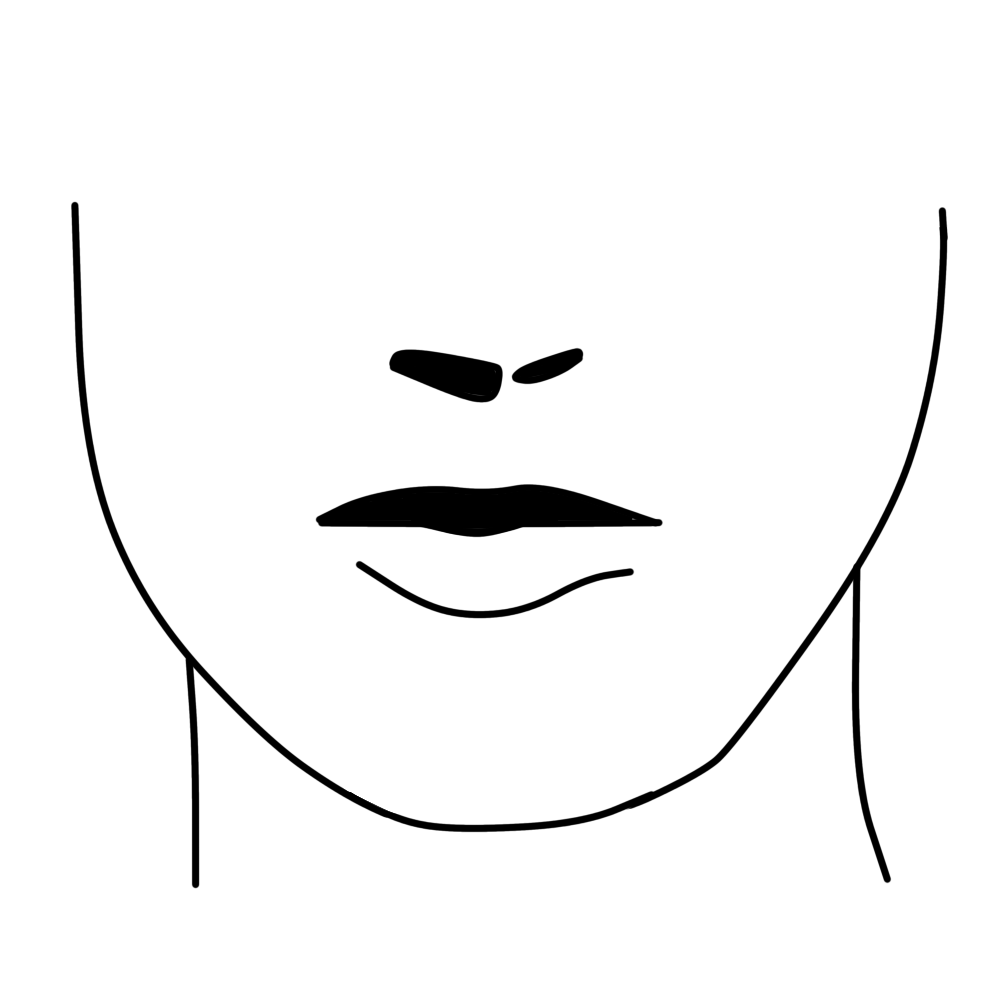
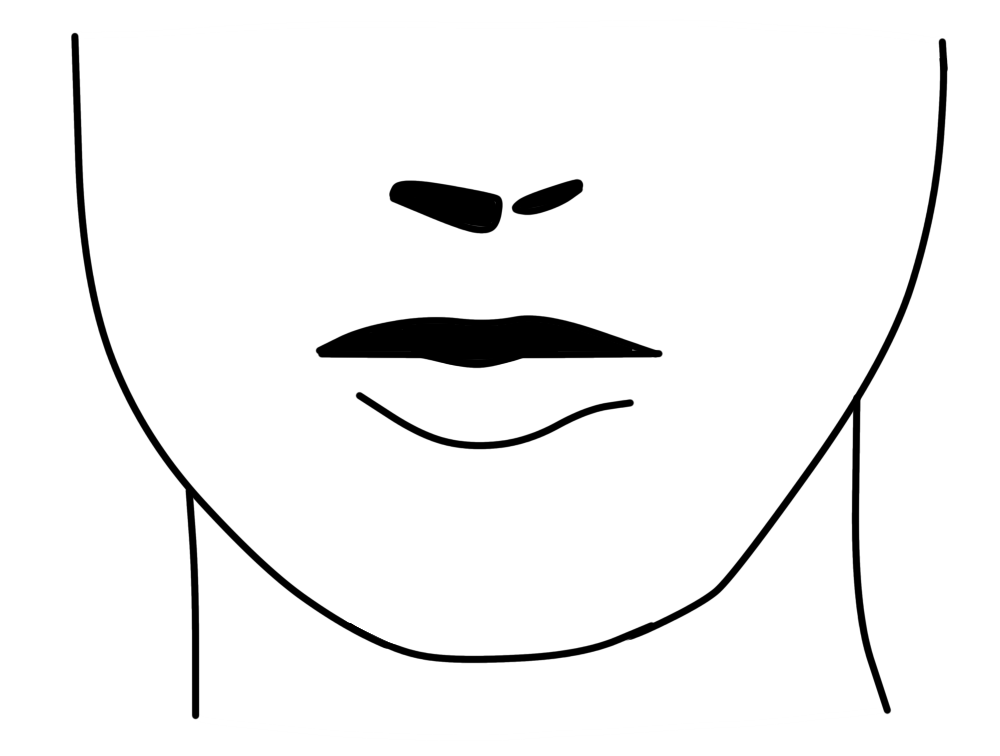
added percentages for all positions in laptop screen; adjusted styling for all screen sizes

diff --git a/animation.js b/animation.js
@@ -86,17 +86,59 @@ function display() {
     document.getElementById("resultIPA").innerHTML = ipaWords.join("");
 
     // image
+    handshape = cueNotation[animation_index][0];
     position = cueNotation[animation_index].slice(1);
     hand = document.getElementById("hand");
-    switch(position) {
-        case("m"): hand.style.right = "120px"; hand.style.bottom = "80px"; break;
+    hand.src = "images/5.png";
+    hand.style.transform = "scale(1)";
+    switch(handshape) {
+        case("1"): hand.src = "images/1.png"; break;
+        case("2"): hand.src = "images/2.png"; break;
+        case("3"): hand.src = "images/3.png"; break;
+        case("4"): hand.src = "images/4.png"; break;
+        case("5"): hand.src = "images/5.png"; break;
+        case("6"): hand.src = "images/6.png"; break;
+        case("7"): hand.src = "images/7.png"; break;
+        case("8"): hand.src = "images/8.png"; break;
     }
-    if (position == previousCue) {
+    switch(position) {
+        case("m"): hand.style.left = "56%"; hand.style.top = "10%"; break;
+        case("c"): hand.style.left = "49%"; hand.style.top = "30%"; break;
+        case("t"): hand.style.left = "49%"; hand.style.top = "40%"; break;
+        case("s"): hand.style.left = "70%"; hand.style.top = "35%"; break;
+        case("sf"): 
+            hand.style.left = "70%"; hand.style.top = "35%"; 
+            setTimeout(() => {
+                hand.style.transform = "scale(1.1)"; 
+            }, 100);   
+            break;
+        case("sd"): 
+            hand.style.left = "70%"; hand.style.top = "35%";     
+            setTimeout(() => {
+                hand.style.left = "70%"; hand.style.top = "45%"; 
+            }, 300);
+            break;
+        case("c-5t"): 
+            hand.style.left = "49%"; hand.style.top = "30%"; 
+            setTimeout(() => {
+                hand.src = "images/5.png";
+                hand.style.left = "49%"; hand.style.top = "40%";
+            }, 200);
+            break;
+        case("s-5t"): 
+            hand.style.left = "70%"; hand.style.top = "35%"; 
+            setTimeout(() => {
+                hand.src = "images/5.png";
+                hand.style.left = "49%"; hand.style.top = "40%";
+            }, 200);
+            break;
+    }
+    if (position == previousCue && position != "sf" && position != "sd" && position != "c-5t" && position !="s-5t") {
         hand = document.getElementById("hand");
         hand.style.transform = "scale(1.1)";
         setTimeout(() => {
             hand.style.transform = "scale(1)";
-        }, 150);
+        }, 100);
     }
     previousCue = position;
 }

diff --git a/style.css b/style.css
@@ -11,27 +11,50 @@ h1 {
     text-align: center;
 }
 #window {
-    width: 80%;
-    height: 500px;
+    width: 100%;
+    height: 65vw;
     max-width: 950px;
+    max-height: 450px;
     /*min-height: 250px;*/
     border: 1px solid black;
-    text-align: center;
     margin: auto;
-    /*margin-bottom: 50px;*/
+    text-align: center;
+    padding-bottom: 30px;
     position: relative;
 }
 #window #face {
     margin: auto;
-    width: 400px;
+    width: 40%;
+    max-width: 400px;
+    display: block;
 }
 #window #hand {
     position: absolute;
-    right: 0px;
-    bottom: 0px;
-    width: 300px;
+    left: 70%;
+    top: 35%;
+    width: 28%;
+    height: auto;
+    max-width: 300px;
     transition: .5s;
 }
+@media screen and (max-width: 800px) {
+    #window {
+        text-align: unset;
+    }
+    #window #face {
+        display: unset;
+        width: 55%;
+    }
+    #window #hand {
+        left: 58%;
+        top: 35%;
+        width: 40%;
+        /* m
+        left: 36%;
+        top: 10%;*/
+    }
+}
+
 #window span {
     font-size: 2em;
     margin: auto;

diff --git a/index.html b/index.html
@@ -27,7 +27,7 @@
     <div id="window">
         <!--<span id="window-text"></span>-->
         <img src="images/face.png" alt="face" id="face">
-        <img src="images/hand.png" alt="hand" id="hand">
+        <img src="images/5.png" alt="hand" id="hand">
     </div>
     <div id="window-buttons">
         <i class="fa-solid fa-backward" onclick="restart()"></i>
